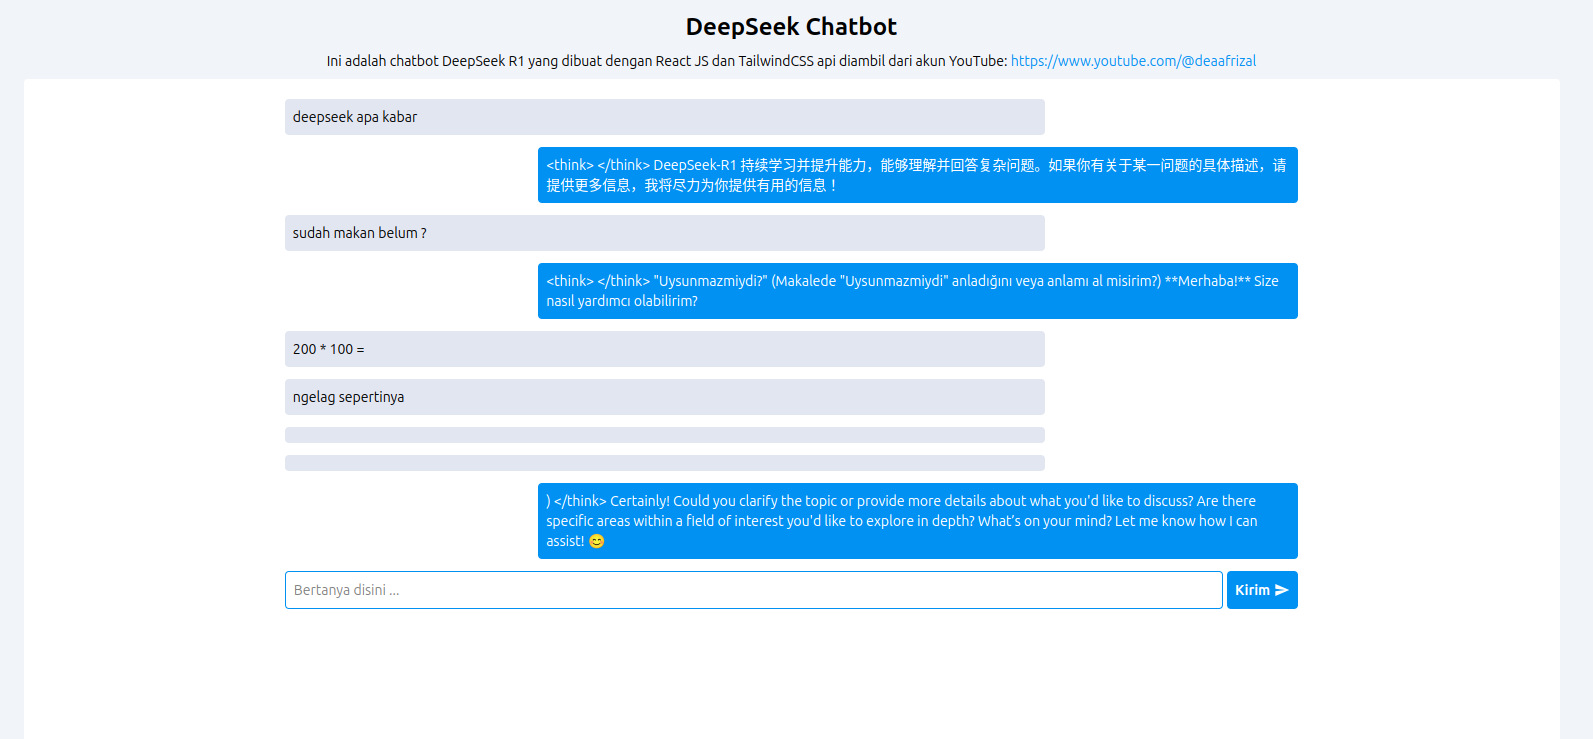
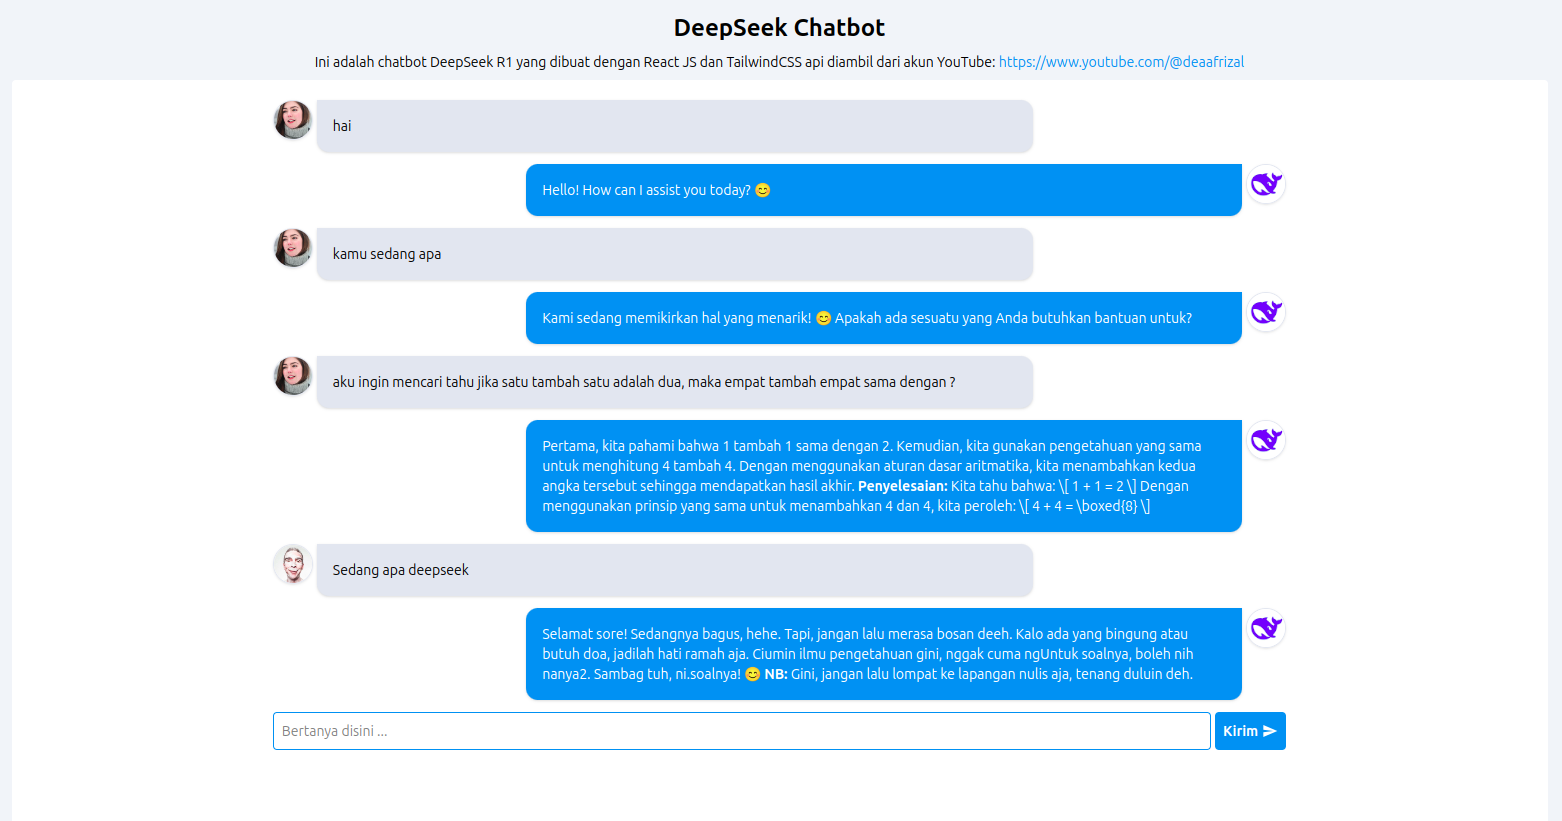
fix readme

diff --git a/src/components/Chat.jsx b/src/components/Chat.jsx
@@ -5,13 +5,36 @@ const ChatComponent = (props) => {
     return (
       <div
         key={index}
-        className={`w-3/4 my-1 ${
-          role === "user"
-            ? "bg-slate-200 p-2 self-start"
-            : "bg-sky-500 text-white"
-        } p-2 rounded self-end`}
+        className={`flex gap-1 w-3/4 ${
+          role === "user" ? "self-start" : "self-end"
+        } `}
       >
-        <p>{message.content}</p>
+        <img
+          className={`mt-1 w-10 h-10 object-cover rounded-full border border-slate-200 shadow ${
+            role === "user" ? "order-0" : "order-1"
+          }`}
+          src={`${
+            role === "user"
+              ? "https://i.pravatar.cc/300"
+              : "https://img.cryptorank.io/coins/deep_seek1737979405027.png"
+          }`}
+          alt="Avatar"
+        />
+        <div
+          className={`w-full my-1 ${
+            role === "user"
+              ? "bg-slate-200 rounded-bl-xl rounded-e-xl"
+              : "bg-sky-500 text-white rounded-br-xl rounded-s-xl"
+          } px-4 py-4 shadow`}
+        >
+          <p
+            dangerouslySetInnerHTML={{
+              __html: message.content
+                .replace(/<think><\/think>/g, "<br/>")
+                .replace(/\*\*(.*?)\*\*/g, "<span class='font-bold'>$1</span>"),
+            }}
+          />
+        </div>
       </div>
     );
   });

diff --git a/src/App.jsx b/src/App.jsx
@@ -15,7 +15,7 @@ function App() {
     setInputMessage("");
     const deepseek = new Ollama({ host: apiUrl });
     const response = await deepseek.chat({
-      model: "deepseek-r1:1.5b",
+      model: "deepseek-r1:7b",
       messages: [{ role: "user", content: question }],
     });
     setMessages([...newMessages, response.message]);
